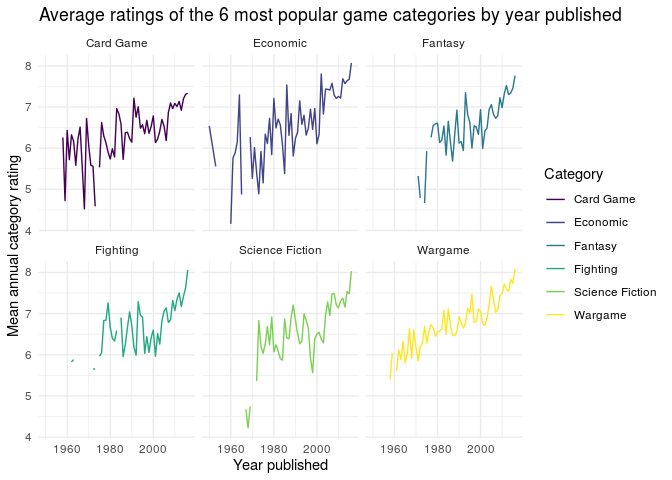
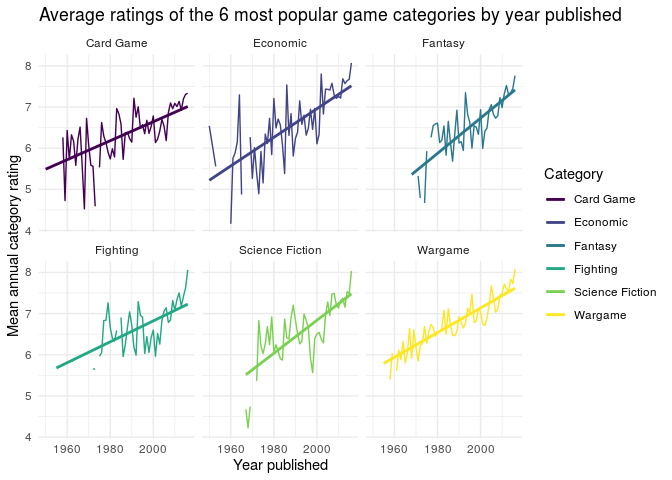
In which Connor finally gets something working

diff --git a/extra/Connor.md b/extra/Connor.md
@@ -89,6 +89,7 @@ cat_ratings %>%
   pivot_longer(cols = 2:ncol(cat_ratings), names_to = "category", values_to = "av_rating") %>% 
   ggplot(aes(x = year_published, y = av_rating, colour = category)) + 
   geom_line() +
+  geom_smooth(method = "lm", se = FALSE) +
   facet_wrap(~ category) +
   labs(
     x = "Year published", 
@@ -100,9 +101,50 @@ cat_ratings %>%
   theme_minimal()
 ```
 
+    ## `geom_smooth()` using formula 'y ~ x'
+
 ![](Connor_files/figure-gfm/top-cats-over-time-plot-1.png)<!-- -->
 
-Looking at this we can see that there is a trend in each category that
-the annual average rating increases over time, so this might be cool to
-look into. However next i’ll look into the correlation coefficients of
-each category and the average rating if I can work out how to do that.
+Now looking at category vs rating cause it looks like the year published
+will send the rating up but maybe not the category itself
+
+``` r
+board_games_empty <- board_games_splitcats %>%
+  filter(FALSE)
+board_games_popcats <- board_games_empty
+
+for (c in popular_categories) {
+  board_games_popcats <- full_join(
+    board_games_popcats,
+    board_games_splitcats %>%
+      filter(map_lgl(categories, ~c %in% .x)) %>%
+      mutate(category = c)
+  )
+}
+```
+
+    ## Joining, by = c("game_id", "description", "image", "max_players", "max_playtime", "min_age", "min_players", "min_playtime", "name", "playing_time", "thumbnail", "year_published", "artist", "category", "compilation", "designer", "expansion", "family", "mechanic", "publisher", "average_rating", "users_rated", "categories")
+    ## Joining, by = c("game_id", "description", "image", "max_players", "max_playtime", "min_age", "min_players", "min_playtime", "name", "playing_time", "thumbnail", "year_published", "artist", "category", "compilation", "designer", "expansion", "family", "mechanic", "publisher", "average_rating", "users_rated", "categories")
+    ## Joining, by = c("game_id", "description", "image", "max_players", "max_playtime", "min_age", "min_players", "min_playtime", "name", "playing_time", "thumbnail", "year_published", "artist", "category", "compilation", "designer", "expansion", "family", "mechanic", "publisher", "average_rating", "users_rated", "categories")
+    ## Joining, by = c("game_id", "description", "image", "max_players", "max_playtime", "min_age", "min_players", "min_playtime", "name", "playing_time", "thumbnail", "year_published", "artist", "category", "compilation", "designer", "expansion", "family", "mechanic", "publisher", "average_rating", "users_rated", "categories")
+    ## Joining, by = c("game_id", "description", "image", "max_players", "max_playtime", "min_age", "min_players", "min_playtime", "name", "playing_time", "thumbnail", "year_published", "artist", "category", "compilation", "designer", "expansion", "family", "mechanic", "publisher", "average_rating", "users_rated", "categories")
+    ## Joining, by = c("game_id", "description", "image", "max_players", "max_playtime", "min_age", "min_players", "min_playtime", "name", "playing_time", "thumbnail", "year_published", "artist", "category", "compilation", "designer", "expansion", "family", "mechanic", "publisher", "average_rating", "users_rated", "categories")
+
+``` r
+linear_reg() %>%
+  set_engine("lm") %>%
+  fit(average_rating ~ category, data = board_games_popcats)
+```
+
+    ## parsnip model object
+    ## 
+    ## Fit time:  5ms 
+    ## 
+    ## Call:
+    ## stats::lm(formula = average_rating ~ category, data = data)
+    ## 
+    ## Coefficients:
+    ##             (Intercept)         categoryEconomic          categoryFantasy  
+    ##                  6.2551                   0.3135                   0.2672  
+    ##        categoryFighting  categoryScience Fiction          categoryWargame  
+    ##                  0.3328                   0.2291                   0.5198
